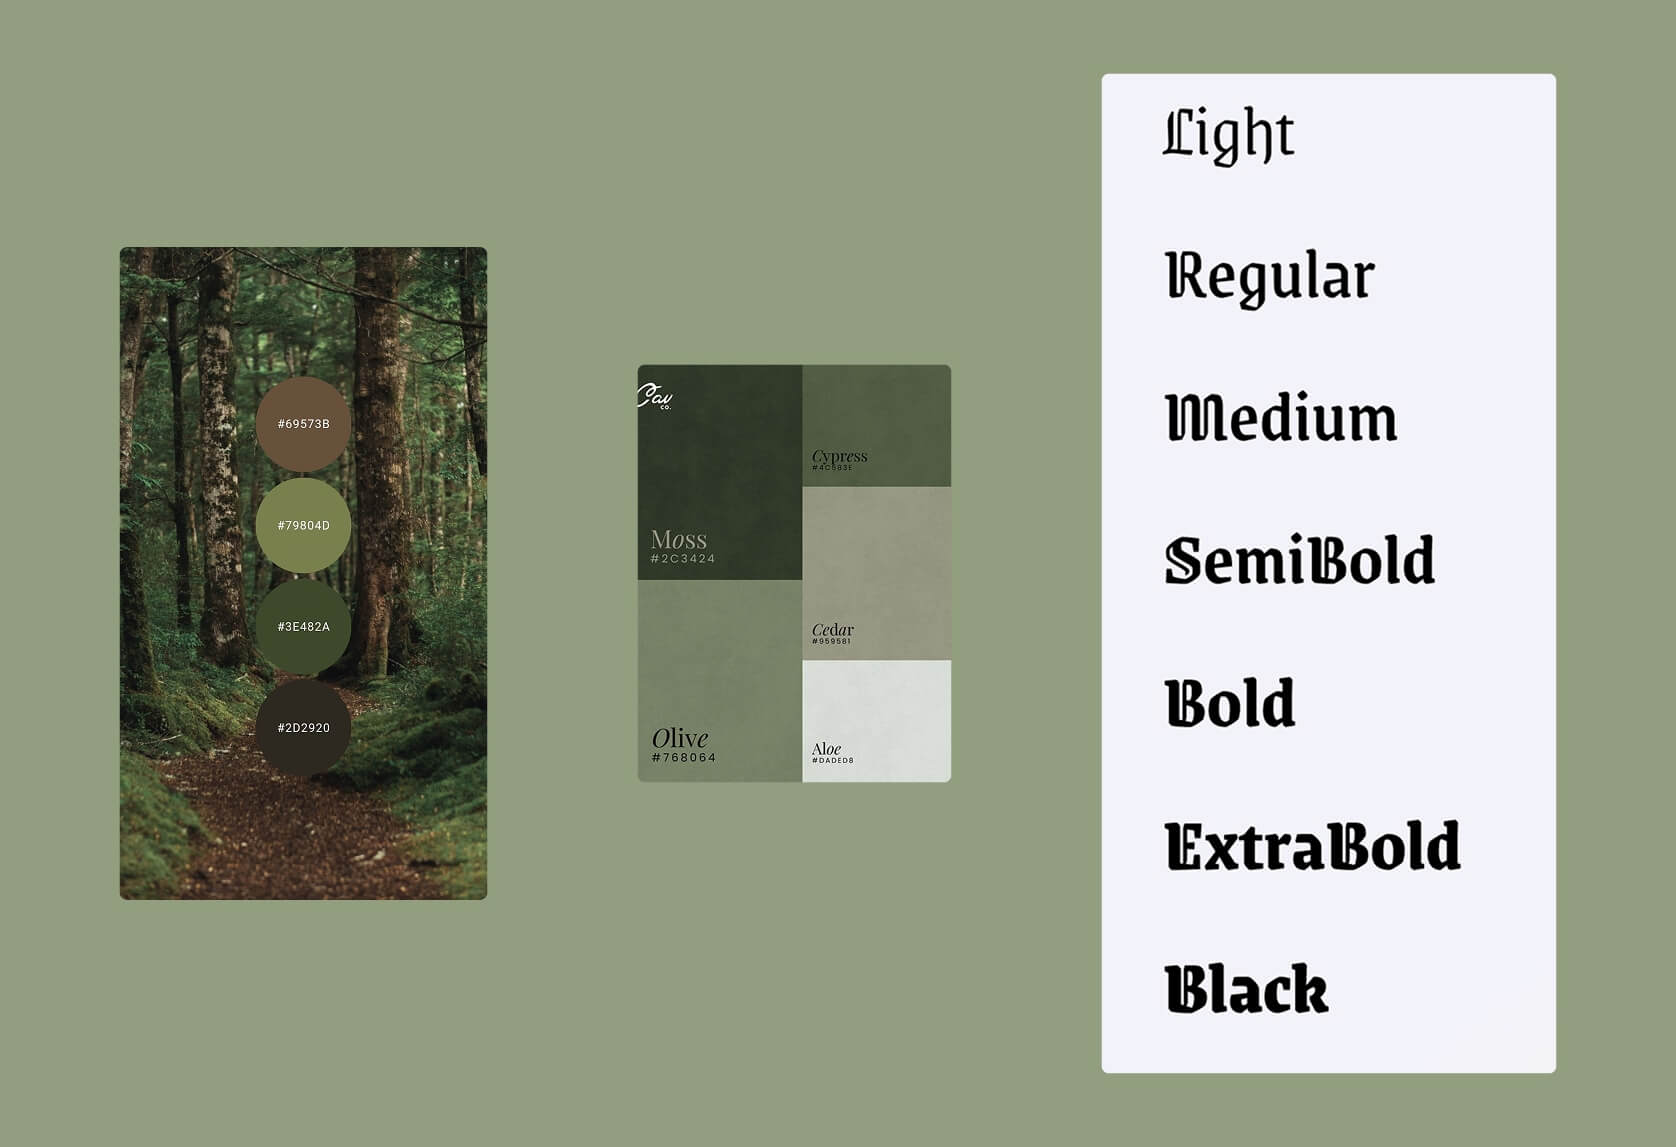
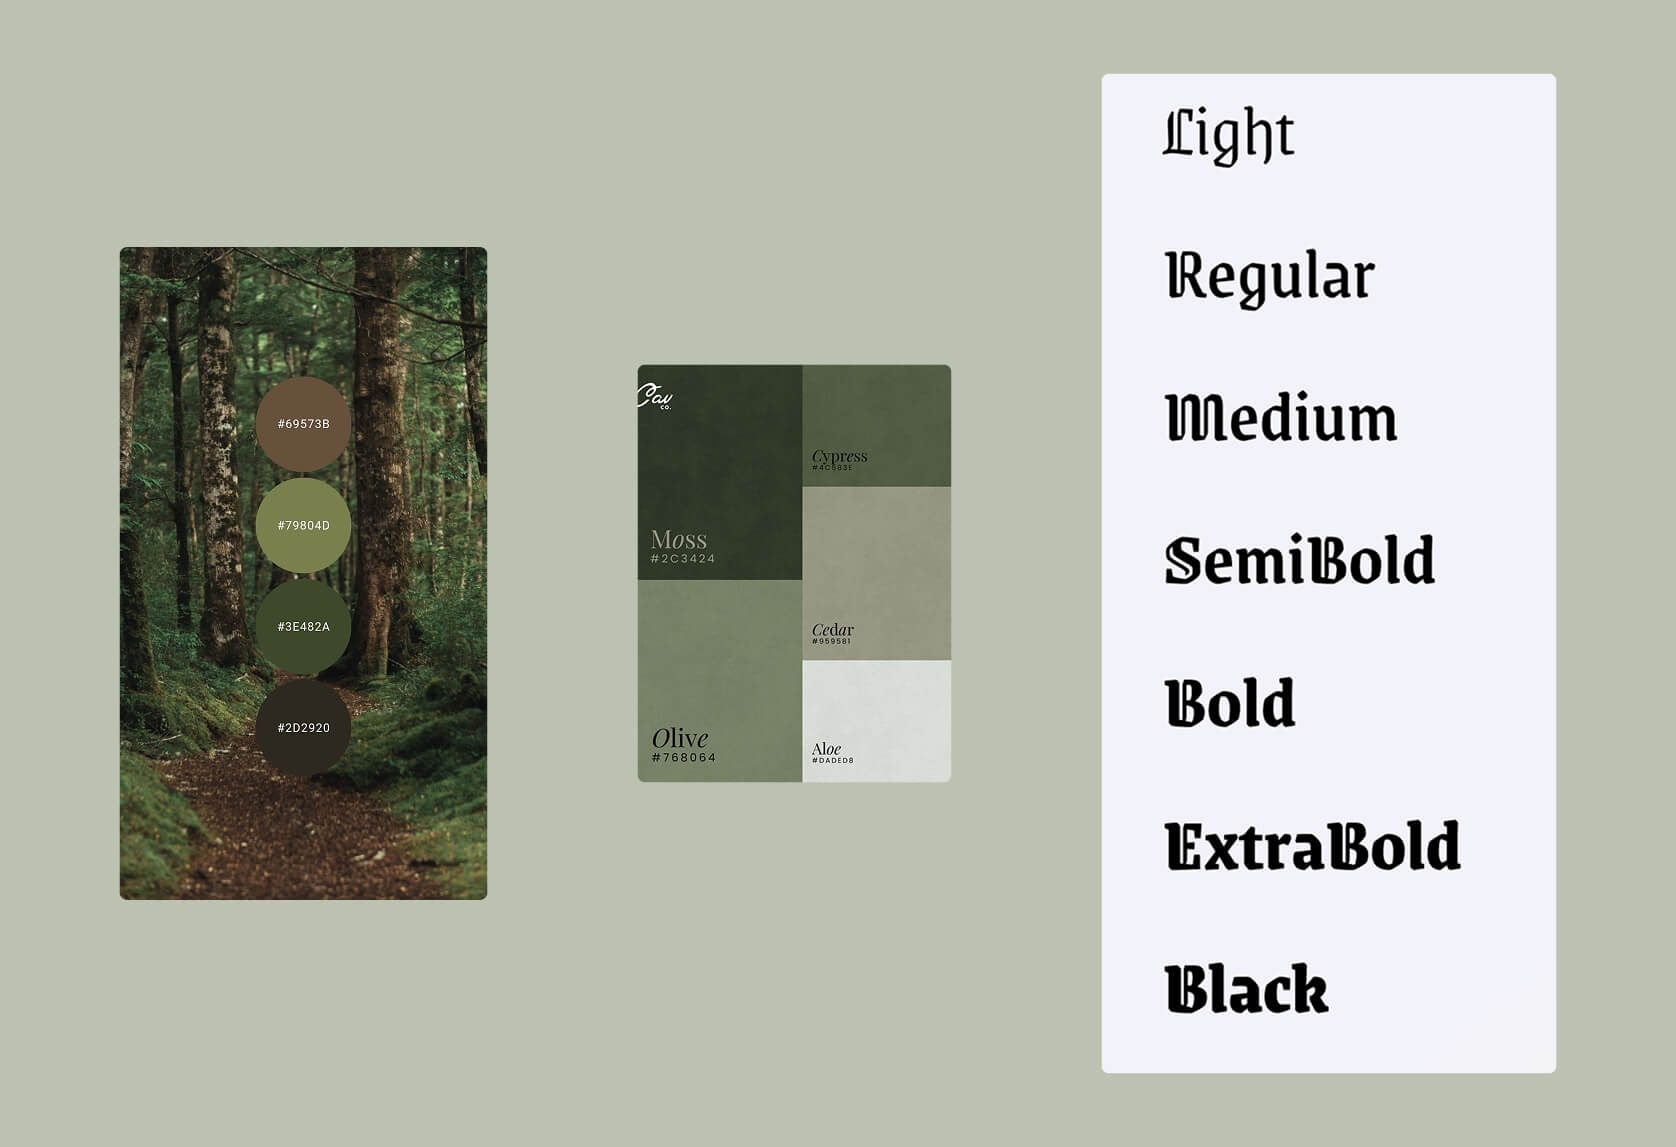
update 'justin site' page - mockup imgs

diff --git a/project-justinSite.html b/project-justinSite.html
@@ -3,13 +3,12 @@
 <head>
   <meta charset="UTF-8" />
   <meta name="viewport" content="width=device-width, initial-scale=1.0" />
-  <title>Project Justin Jet Zorbas | Lulu Xu</title>
+  <title>Project Bardic Tools | Justin Jet Zorbas</title>
   <link rel="stylesheet" href="css/styles.css">
   <link href="https://fonts.googleapis.com/css2?family=Habibi&display=swap" rel="stylesheet">
   <link href="https://fonts.googleapis.com/css2?family=Grenze+Gotisch:wght@400;600;700&display=swap" rel="stylesheet">
   <!-- Font Awesome for social icons -->
 <link rel="stylesheet" href="https://cdnjs.cloudflare.com/ajax/libs/font-awesome/6.5.0/css/all.min.css">
-        <link rel="icon" href="/images/browerIcon.png" type="image/png">
 
   <script defer src="script.js"></script>
 </head>
@@ -86,8 +85,15 @@
 
 
 
+<section class="reveal">
+  <div class="container">
+    <div class="full-width-image">
+      <img src="images/justinSite-heroImg.jpg" alt="Project 1 Preview" class="responsive-image">
+    </div>
+  </div>
+</section>
 
-<!-- Image Section (replacing YouTube video) -->
+<!-- Image Section (replacing YouTube video)
 <section class="reveal">
   <div class="container">
 <video autoplay loop muted playsinline width="800" class="demo-video">
@@ -96,7 +102,7 @@
 </video>
 
   </div>
-</section>
+</section> -->
   
 
 
@@ -123,14 +129,24 @@
 </section>
 
 
-<section class="reveal">
+<!-- <section class="reveal">
   <div class="container">
     <div class="full-width-image">
       <img src="images/justinSite-homepage.jpg" alt="Project 1 Preview" class="responsive-image">
     </div>
   </div>
-</section>
+</section>-->
 
+<!-- Image Section (replacing YouTube video)-->
+<section class="reveal">
+  <div class="container">
+<video autoplay loop muted playsinline width="800" class="demo-video">
+  <source src="images/justinSite-fireflyNew.webm" type="video/webm">
+  <source src="images/justinSite-fireflyNew.mp4" type="video/mp4">
+</video>
+
+  </div>
+</section> 
 
 
 
@@ -228,7 +244,7 @@
       <img src="images/justinSite-homepage-firefly.jpg" alt="Project 1 Preview" class="responsive-image">
     </div>
   </div>
-</section>-->
+</section>
 
 
 
@@ -240,7 +256,7 @@
 </video>
 
   </div>
-</section>
+</section>-->
 
 
 <section class="reveal">
@@ -307,11 +323,11 @@
 <section class="project-images reveal">
   <div class="container project-grid-image">
   <div class="full-width-image">
-      <img src="images/justinSite-phone1.png" alt="Project 1 Preview" class="responsive-image">
+      <img src="images/justinSite-phone1.jpg" alt="Project 1 Preview" class="responsive-image">
     </div>
 
   <div class="full-width-image">
-      <img src="images/justinSite-phone2.png" alt="Project 1 Preview" class="responsive-image">
+      <img src="images/justinSite-phone2.jpg" alt="Project 1 Preview" class="responsive-image">
     </div>
   </div>
 </section>
